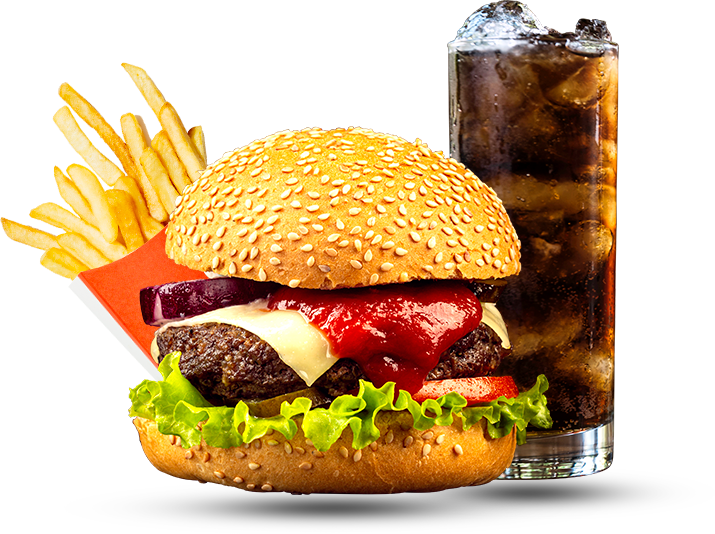
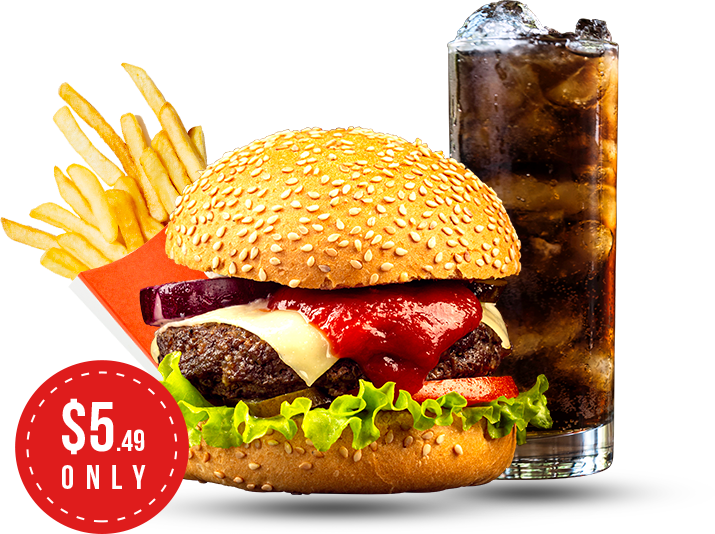
hero section completed

Changed region(s): [[0.0, 0.6592, 0.2769, 1.0]]

diff --git a/resources/css/style.css b/resources/css/style.css
@@ -1,8 +1,17 @@
+/***************
+GOOGLE FONTS
+***************/
 @import url('https://fonts.googleapis.com/css2?family=Alfa+Slab+One&family=Bebas+Neue&family=Montserrat:wght@100;200;300;400;500;600;700;800;900&display=swap');
+/***************
+BASIC SETUP 
+***************/
 body {
     font-family: 'Montserrat', sans-serif;
     color: #3d2514;
 }
+/***************
+HERO-SECTION START 
+***************/
 .header-area {
     background: url(../img/hero-bg.jpg);
     background-size: cover;
@@ -10,6 +19,7 @@ body {
     background-position: center top;
     background-attachment: fixed;
 }
+/* NAVIGATION AREA */
 .top-nav {
     padding: 0.50rem;
 }
@@ -31,13 +41,14 @@ body {
     font-size: 1.04rem;
     font-weight: 600;
 }
-/* hro-banner area */
+/* HERO-BANNER AREA */
 .hero-banner {
-    margin-top: 80px;
+    margin-top: 20px;
     font-family: 'Bebas Neue', cursive;
+    padding-bottom: 5%;
 }
 .slogan {
-    margin-top: 1.5rem;
+    margin: 1.5rem auto 0 auto;
     font-size: 23.65px;
     border: 3px dashed #3d2514;
     max-width: 400px;
@@ -46,28 +57,24 @@ body {
     font-family: 'Alfa Slab One', cursive;
     font-size: 4rem;
     line-height: 4rem;
+    text-shadow: 2px 2px #ffffff;
+    text-align: center;
+    margin-top: 1.5rem;
 }
 .campaign-sub {
     font-size: 2.5rem;
     line-height: 2.5rem;
 }
-.price-combo {
-    font-size: 2.5rem;
-    line-height: 2.5rem;   
-}
-.cents {
-    font-size: 1.5rem;
-}
-.price-text {
-    font-size: 2rem;
-}
+
+
+/***************
+RESPONSIVE LAYOUT 
+***************/
 @media only screen and (min-width: 992px) {
-    .header-area {
-        background: url(../img/hero-bg.jpg);
-        background-size: contain;
-        background-repeat: no-repeat;
-        background-position: center top;
-        background-attachment: fixed;
+    .hero-banner {
+        margin-top: 80px;
+        font-family: 'Bebas Neue', cursive;
+        padding-bottom: 78px;
     }
     .top-nav {
         height: 8.375rem;
@@ -103,38 +110,16 @@ body {
     .slogan {
         height: 50px;
         line-height: 50px;
-        margin-top: 80px;
+        margin: 80px 0 0 0;
     }
     .campaign {
         font-family: 'Alfa Slab One', cursive;
         font-size: 5.63rem;
         line-height: 5.63rem;
+        text-align: start;
     }
     .campaign-sub {
         font-size: 2.5rem;
         line-height: 2.5rem;
-    }
-    .combo-offer {
-        position: relative;
-    }
-    .price-tag {
-        position: absolute;
-        top: 0;
-        left: 0;
-        border-radius: 50%;
-        background:#bf2222;
-        width: 12.5rem;
-        height: 12.5rem;
-    }
-    .price-combo {
-        border-radius: 50%;
-        width: 12rem;
-        height: 12rem;
-        line-height: 12rem;
-        background: white;
-        margin-left: .25rem;
-        margin-top: .25rem;
-    }
-    .price-text {
     }
 }

diff --git a/index.html b/index.html
@@ -21,7 +21,7 @@
 
 <body>
     <header id="hero-section" class="header-area">
-        <!-- NAVIGATION AREA -->
+        <!-- NAVIGATION AREA START -->
         <div class="container navbar-container">
             <div class="row top-nav align-items-center align-items-lg-start">
                 <div class="col-5 col-md-3">
@@ -62,8 +62,8 @@
                 </div>
             </div>
         </div>
-        <!-- NAVIGATION AREA ENDS HERE -->
-        <!-- HERO BANNER AREA -->
+        <!-- NAVIGATION AREA END -->
+        <!-- HERO BANNER AREA START -->
         <div class="container hero-banner-area">
             <div class="row hero-banner">
                 <div class="col-lg-6">
@@ -72,10 +72,10 @@
                 </div>
                 <div class="col-lg-6 combo-offer">
                     <img src="resources/img/hero-image.png" alt="burger-combo" class="img-fluid">
-                    <div class="price-tag"><p class="price-combo text-center">$5<span class="cents">.49</span><span class="price-text">only</span></p></div>
                 </div>
             </div>
         </div>
+        <!-- HERO BANNER AREA START -->
     </header>
     <!-- PLUGINS -->
     <script src="https://cdn.jsdelivr.net/npm/@popperjs/core@2.11.5/dist/umd/popper.min.js"></script>
